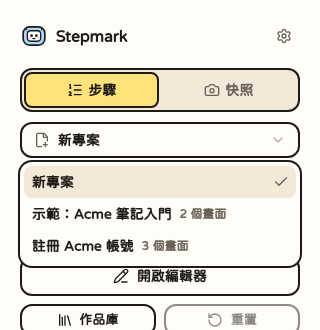
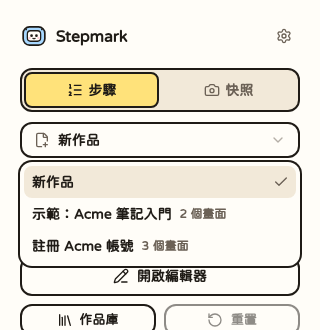
copy: drop the mascot voice from the welcome page and tidy wording
The welcome page spoke as the product ("Hi! I'm Stepmark", "Pin me", "先說好的事").
Use neutral product copy in zh-TW and en, fix the wording that leaked internals
("Guide", "背景程序", "候選"), and use 作品 consistently instead of 專案.
Screenshots regenerated to match.

Claude-Session: https://claude.ai/code/session_01XiMQX4VTKqCgdWzhXxUTDH

Changed region(s): [[0.125, 0.5152, 0.25, 0.5758], [0.2188, 0.3939, 0.3125, 0.4545]]

diff --git a/extension/lib/shared/i18n/messages/zh-TW.ts b/extension/lib/shared/i18n/messages/zh-TW.ts
@@ -49,8 +49,8 @@ export const zhTW = {
     open: '設定',
     languageDescription: '介面使用的語言。選擇「跟隨瀏覽器」時，會依瀏覽器的語言自動切換。',
     welcomeTitle: '歡迎頁',
-    welcomeDescription: '重新看一次怎麼把 Stepmark 釘到工具列，以及兩種錄法的差別。',
-    openWelcome: '打開歡迎頁',
+    welcomeDescription: '重新檢視如何將 Stepmark 釘選到工具列，以及兩種錄製模式的差異。',
+    openWelcome: '開啟歡迎頁',
   },
 
   // The header every full-page surface shares (components/shared/AppHeader).
@@ -64,18 +64,18 @@ export const zhTW = {
 
   welcome: {
     crumb: '歡迎',
-    title: '嗨！我是 Stepmark',
-    intro: '點一點、錄一錄，就能把網頁操作變成一步一步的圖文教學。',
-    pinTitle: '先把我釘到工具列',
-    pinBody: '點瀏覽器右上角的拼圖，再點 Stepmark 旁邊的圖釘。之後隨時點我就能開始錄。',
+    title: '歡迎使用 Stepmark',
+    intro: '錄製網頁操作，自動產生逐步的圖文教學。',
+    pinTitle: '將 Stepmark 釘選到工具列',
+    pinBody: '點選瀏覽器右上角的拼圖圖示，再點選 Stepmark 旁邊的圖釘。之後隨時點擊工具列上的圖示就能開始錄製。',
     pinIllustrationLabel: '瀏覽器的擴充功能選單：Stepmark 旁邊的圖釘已經按下',
     pinMenuTitle: '擴充功能',
     pinOtherExtension: '其他擴充功能',
-    modesTitle: '選一種錄法',
-    promisesTitle: '先說好的事',
-    localOnly: '所有截圖都只存在這台電腦，不會上傳。',
-    crossTab: '預設只錄目前分頁；要跨分頁錄，第一次開始時會請你授權。',
-    revisitHint: '之後想再看這頁，可以到「設定」裡找到。',
+    modesTitle: '錄製模式',
+    promisesTitle: '隱私與權限',
+    localOnly: '所有截圖只儲存在這台電腦，不會上傳。',
+    crossTab: '預設只錄製目前分頁；若要跨分頁錄製，首次開始時會請你授權。',
+    revisitHint: '日後可在「設定」中再次開啟此頁。',
     goToLibrary: '前往作品庫',
   },
 
@@ -109,7 +109,7 @@ export const zhTW = {
 
   popup: {
     recordTarget: '錄到哪裡',
-    recordTargetNew: '新專案',
+    recordTargetNew: '新作品',
     recordTargetCount: (count: number) => `${count} 個畫面`,
     continueRecording: '接續錄製',
     editorServiceUnavailable: '無法連接編輯器服務，請重新開啟 Stepmark 後再試一次。',
@@ -146,7 +146,7 @@ export const zhTW = {
     noMatches: '找不到符合的作品',
     empty: '建立第一份作品',
     noMatchesHint: '換個關鍵字，或清除標籤篩選再試一次。',
-    emptyHint: '到想示範的網頁打開 Stepmark 按「開始錄製」，或先建立一份空白作品。',
+    emptyHint: '在要示範的網頁開啟 Stepmark 並按「開始錄製」，或先建立一份空白作品。',
     otherActionPending: '另一項操作進行中',
     tag: (tag: string) => `＃${tag}`,
     titleLabel: '作品名稱',
@@ -376,7 +376,7 @@ export const zhTW = {
       needsAccess: (action: string) => `${action}前需要存取來源網站`,
       pickTabBody: '錄製會從選取的分頁開始，之後會跟著你切換的分頁；新步驟會接在最後。',
       sourceUnavailableBody: (reason: string) => `${reason}你可以改在目前開啟的網頁分頁繼續錄製。`,
-      accessBody: 'Stepmark 只會要求這個網站的存取權，且會在開始前由背景程序再次核對目前儲存的來源。',
+      accessBody: 'Stepmark 只會要求這個網站的存取權，開始前也會再次確認來源網站。',
       appendNote: '新步驟會接在最後。',
       continueElsewhere: '改在其他頁面接續',
       authorizing: '正在授權…',
@@ -526,7 +526,7 @@ export const zhTW = {
   shield: {
     captureTimedOut: '擷取逾時，請重新選取目標',
     noKeyboardTargets: '目前沒有可用鍵盤標註的元素',
-    candidate: (index: number, total: number, label: string) => `候選 ${index} / ${total}：${label}`,
+    candidate: (index: number, total: number, label: string) => `目標 ${index} / ${total}：${label}`,
     unnamedElement: '未命名元素',
     cannotAnnotate: '此處無法標註，請選擇其他元素',
     skipToControls: '跳至錄製控制',
@@ -641,7 +641,7 @@ export const zhTW = {
     stoppedRecorderUnavailable: '錄製已停止，因為頁面切換後無法載入錄製工具。',
     sourceTabOpenFailed: '無法開啟原始頁面。',
     restrictedContinuationSource: '此來源頁面不允許錄製。',
-    editorOnlyContinuation: '只能從目前 Guide 的 Stepmark 編輯器接續錄製。',
+    editorOnlyContinuation: '只能從目前作品的 Stepmark 編輯器接續錄製。',
     continuationSourceRedirected: '原始頁面已重新導向，未開始錄製。',
     continuationSourceMissing: '這份內容還沒有可接續的來源頁面，請從彈出視窗開始新的錄製。',
     continuationAccessRequired: '需要先允許 Stepmark 存取此網站，才能接續錄製。',
@@ -652,9 +652,9 @@ export const zhTW = {
     operationChanged: '操作狀態已改變，請再試一次。',
     sourceRedirected: '原始頁面已重新導向，未開始補拍。',
     restrictedSource: '此來源頁面不允許補拍。',
-    editorOnlyPreflight: '只能從目前 Guide 的 Stepmark 編輯器驗證補拍來源。',
+    editorOnlyPreflight: '只能從目前作品的 Stepmark 編輯器驗證補拍來源。',
     editorOnlyStart: '只能從 Stepmark 編輯器啟動補拍。',
-    editorOnlyGuideStart: '只能從目前 Guide 的 Stepmark 編輯器啟動補拍。',
+    editorOnlyGuideStart: '只能從目前作品的 Stepmark 編輯器啟動補拍。',
     stepNotFound: '找不到要補拍的步驟。',
     stepChanged: '此步驟已變更，請重新整理編輯器後再試一次。',
     snapshotNotFound: '找不到要補拍的快照。',

diff --git a/extension/lib/shared/i18n/messages/en.ts b/extension/lib/shared/i18n/messages/en.ts
@@ -60,18 +60,18 @@ export const en: Messages = {
 
   welcome: {
     crumb: 'Welcome',
-    title: 'Hi! I’m Stepmark',
-    intro: 'Click around, record, and your browser steps become a step-by-step visual guide.',
-    pinTitle: 'Pin me to the toolbar',
-    pinBody: 'Click the puzzle piece at the top right of your browser, then the pin next to Stepmark. After that, I’m one click away whenever you want to record.',
+    title: 'Welcome to Stepmark',
+    intro: 'Record your actions in the browser and get a step-by-step visual guide.',
+    pinTitle: 'Pin Stepmark to the toolbar',
+    pinBody: 'Click the puzzle piece at the top right of your browser, then the pin next to Stepmark. After that, you can start recording from the toolbar at any time.',
     pinIllustrationLabel: 'The browser’s extensions menu, with the pin next to Stepmark turned on',
     pinMenuTitle: 'Extensions',
     pinOtherExtension: 'Another extension',
-    modesTitle: 'Pick a way to record',
-    promisesTitle: 'Good to know',
-    localOnly: 'Every screenshot stays on this computer. Nothing is uploaded.',
+    modesTitle: 'Recording modes',
+    promisesTitle: 'Privacy and permissions',
+    localOnly: 'All screenshots stay on this computer. Nothing is uploaded.',
     crossTab: 'Recording covers the current tab. To follow you across tabs, Stepmark asks for permission the first time you start.',
-    revisitHint: 'You can find this page again in Settings.',
+    revisitHint: 'You can open this page again from Settings.',
     goToLibrary: 'Go to library',
   },
 
@@ -382,7 +382,7 @@ export const en: Messages = {
       pickTabBody: 'Recording starts in the selected tab and follows you as you switch tabs. New steps are added at the end.',
       sourceUnavailableBody: (reason: string) => `${reason} You can continue recording in a tab that’s open now.`,
       accessBody:
-        'Stepmark only asks for access to this site, and the background service checks the saved source again before starting.',
+        'Stepmark only asks for access to this site, and checks the source page again before starting.',
       appendNote: 'New steps are added at the end.',
       continueElsewhere: 'Continue on another page',
       authorizing: 'Authorizing…',
@@ -533,7 +533,7 @@ export const en: Messages = {
   shield: {
     captureTimedOut: 'The capture timed out. Pick the target again',
     noKeyboardTargets: 'There are no elements to mark with the keyboard here',
-    candidate: (index: number, total: number, label: string) => `Candidate ${index} of ${total}: ${label}`,
+    candidate: (index: number, total: number, label: string) => `Target ${index} of ${total}: ${label}`,
     unnamedElement: 'Unnamed element',
     cannotAnnotate: 'This spot can’t be marked. Choose another element',
     skipToControls: 'Skip to recording controls',

diff --git a/extension/tests/integration/app-header-pages.test.tsx b/extension/tests/integration/app-header-pages.test.tsx
@@ -35,7 +35,7 @@ describe('welcome page', () => {
 
     expect(mocks.registerPage).toHaveBeenCalled();
     expect(breadcrumb().getByText('歡迎').closest('li')?.getAttribute('aria-current')).toBe('page');
-    expect(screen.getByRole('heading', { level: 1, name: '嗨！我是 Stepmark' })).toBeTruthy();
+    expect(screen.getByRole('heading', { level: 1, name: '歡迎使用 Stepmark' })).toBeTruthy();
 
     fireEvent.click(screen.getByRole('button', { name: /前往作品庫/ }));
     expect(mocks.navigateInPlace).toHaveBeenCalledWith('library');
@@ -44,11 +44,11 @@ describe('welcome page', () => {
   it('covers pinning, both recording modes and the up-front limits', () => {
     render(<WelcomeApp />);
 
-    expect(screen.getByRole('heading', { level: 2, name: /先把我釘到工具列/ })).toBeTruthy();
+    expect(screen.getByRole('heading', { level: 2, name: /將 Stepmark 釘選到工具列/ })).toBeTruthy();
     expect(screen.getByRole('img', { name: /擴充功能選單/ })).toBeTruthy();
     expect(screen.getByText('每次點擊都會擷取一張截圖，自動編號成一連串操作步驟。')).toBeTruthy();
     expect(screen.getByText('鎖定目前畫面，在同一張截圖上加入多個標註點。')).toBeTruthy();
-    expect(screen.getByText('所有截圖都只存在這台電腦，不會上傳。')).toBeTruthy();
+    expect(screen.getByText('所有截圖只儲存在這台電腦，不會上傳。')).toBeTruthy();
   });
 });
 
@@ -75,7 +75,7 @@ describe('settings page', () => {
   it('turns into the welcome page on request', () => {
     render(<OptionsApp />);
 
-    fireEvent.click(screen.getByRole('button', { name: /打開歡迎頁/ }));
+    fireEvent.click(screen.getByRole('button', { name: /開啟歡迎頁/ }));
 
     expect(mocks.navigateInPlace).toHaveBeenCalledWith('welcome');
   });

diff --git a/extension/tests/integration/record-controls-new-guide.test.tsx b/extension/tests/integration/record-controls-new-guide.test.tsx
@@ -201,7 +201,7 @@ describe('popup record target picker', () => {
     mocks.getGuideSummaries.mockResolvedValue(RECENT);
     render(<RecordControls recording={IDLE_RECORDING} />);
 
-    expect((await screen.findByRole('combobox', { name: '錄到哪裡' })).textContent).toContain('新專案');
+    expect((await screen.findByRole('combobox', { name: '錄到哪裡' })).textContent).toContain('新作品');
     fireEvent.click(screen.getByRole('button', { name: '開始錄製' }));
 
     await waitFor(() => expect(mocks.createGuide).toHaveBeenCalledOnce());

diff --git a/extension/components/popup/RecordControls.tsx b/extension/components/popup/RecordControls.tsx
@@ -111,7 +111,7 @@ export default function RecordControls({
   className,
 }: Props) {
   const [mode, setMode] = useState<RecordingMode>('steps');
-  // null = brand-new guide. Never persisted: every popup open starts at 新專案.
+  // null = brand-new guide. Never persisted: every popup open starts at 新作品.
   const [targetGuideId, setTargetGuideId] = useState<string | null>(null);
   const [pending, setPending] = useState(false);
   const [controlError, setControlError] = useState<string | null>(null);

diff --git a/extension/components/popup/RecordTargetPicker.tsx b/extension/components/popup/RecordTargetPicker.tsx
@@ -25,7 +25,7 @@ interface Props {
 
 /**
  * 「錄到哪裡」: the popup's opt-in for appending to an existing Guide. The
- * default stays 新專案 so a stray click can never mix steps into finished work.
+ * default stays 新作品 so a stray click can never mix steps into finished work.
  * Renders nothing until the Library holds at least one Guide, so a first-time
  * user sees no extra control.
  */
